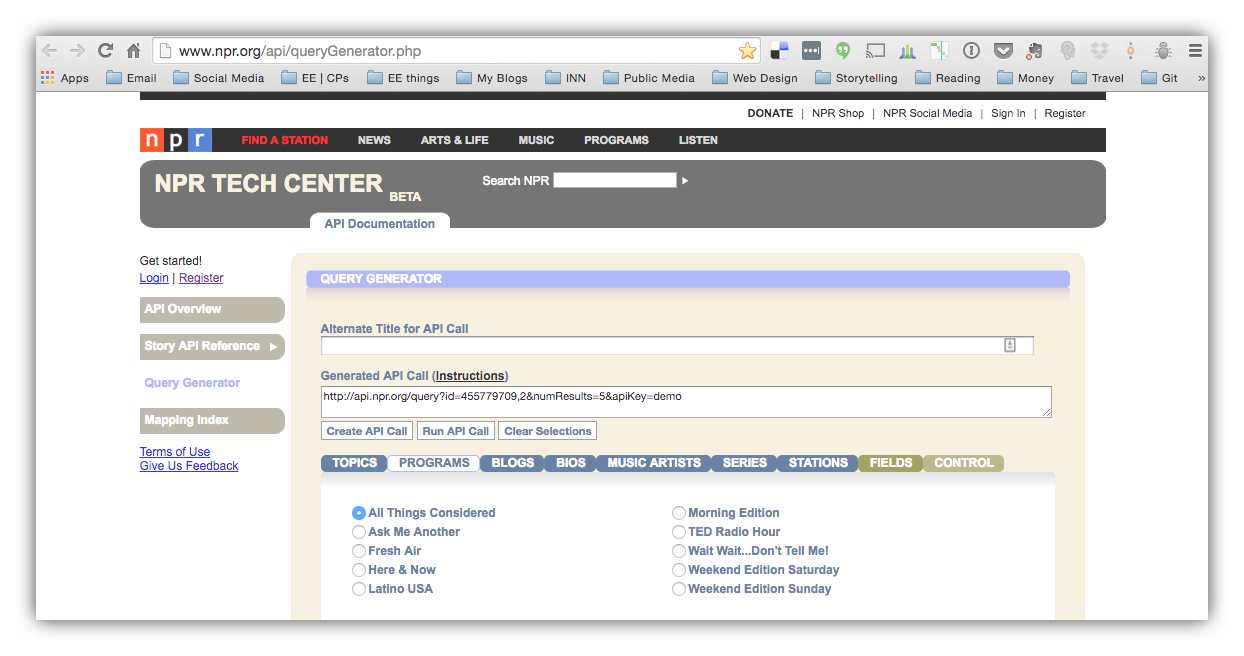
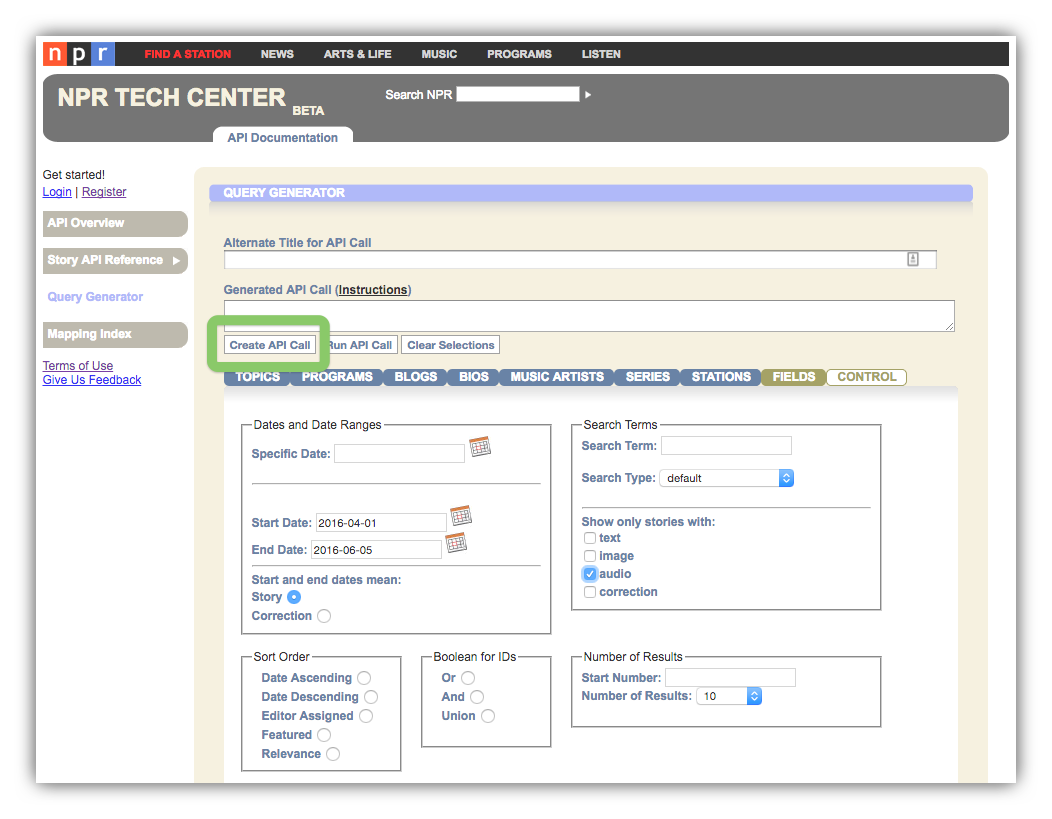
add section on getting multiple returns from the API

diff --git a/docs/pulling.md b/docs/pulling.md
@@ -26,11 +26,32 @@ You then have the choice to create a draft post of the story, or publish the sto
 
 ## NPR Story Custom Fields
 
-Stories in the NPR Story API contain lots of metadata. When you pull a story from the API it will store this metadata in WordPress custom fields. This may include audio files, bylines, image captions and credits, and many other values including the story ID:
+Stories in the NPR Story API contain lots of metadata. When you pull a story from the API, WordPress will store this metadata in custom fields. This may include audio files, bylines, image captions and credits, and many other values including the story ID:
 
 ![NPR story custom fields WordPress post edit screen](/assets/npr-story-custom-fields.png)
 
 You might use this for customizing your WordPress theme to display content in these custom fields.
 
-## Pull By Custom API Query
+## Pull Multiple Stories By Custom API Query
 
+In the WordPress Dashboard go to **Settings > NPR API Git Multi**. This screen offers several "Query String" fields where you can enter a query string for the NPR API. You can enter multiple queries to pull content for different subjects, programs, etc., and set how often the queries will run. Once you save one or more queries, WordPress will continue to run them against the NPR API and return fresh stories as either WordPress Posts or Drafts.
+
+### How to Create a Query String
+
+You can easily create query strings for API content by visiting the [NPR API Query Generator](http://www.npr.org/api/queryGenerator.php). The Query Generator provides a graphical user interface to filter queries by topic, blogs, program, series, stations, and other values in the NPR API. Note that the **Control** tab of the Query Generator adds filtering by date or date range, search terms, and content type. You can also specify the number of results to return for a given query. 
+
+After creating a query in the Query Generator, click the button to **Create API Call**:
+
+![Creating a query in the NPR API Query Generator](/assets/npr-api-query-generator.png)
+
+After you click the button to create your API call, you'll find the full URL of the query in the **Generated API Call** window:
+
+![a query URL in the NPR API Query Generator](/assets/npr-api-query-url.png)
+
+Now copy the API call string up to the last segment `&apiKey=demo`. Do not include this in copying the query string. _(That segment would only be useful if you were going to run the query in the Query Generator itself, which we're not doing here.)_
+
+Now that you've created and copied a query string, return to your **WordPress Dashboard > Settings > NPR API Git Multi** and paste the string into one of the Query String fields. Use the dropdown menu to set whether stories returned from the API should be saved as Drafts or Posts.
+
+When you click **Save Changes**, WordPress will begin pulling NPR API content. Note that it may take up to an hour before stories begin showing up as Posts or Drafts.
+
+You can add more queries any time. If you run out of Query String fields, just increase the **Number of things to get** setting to add more fields.
